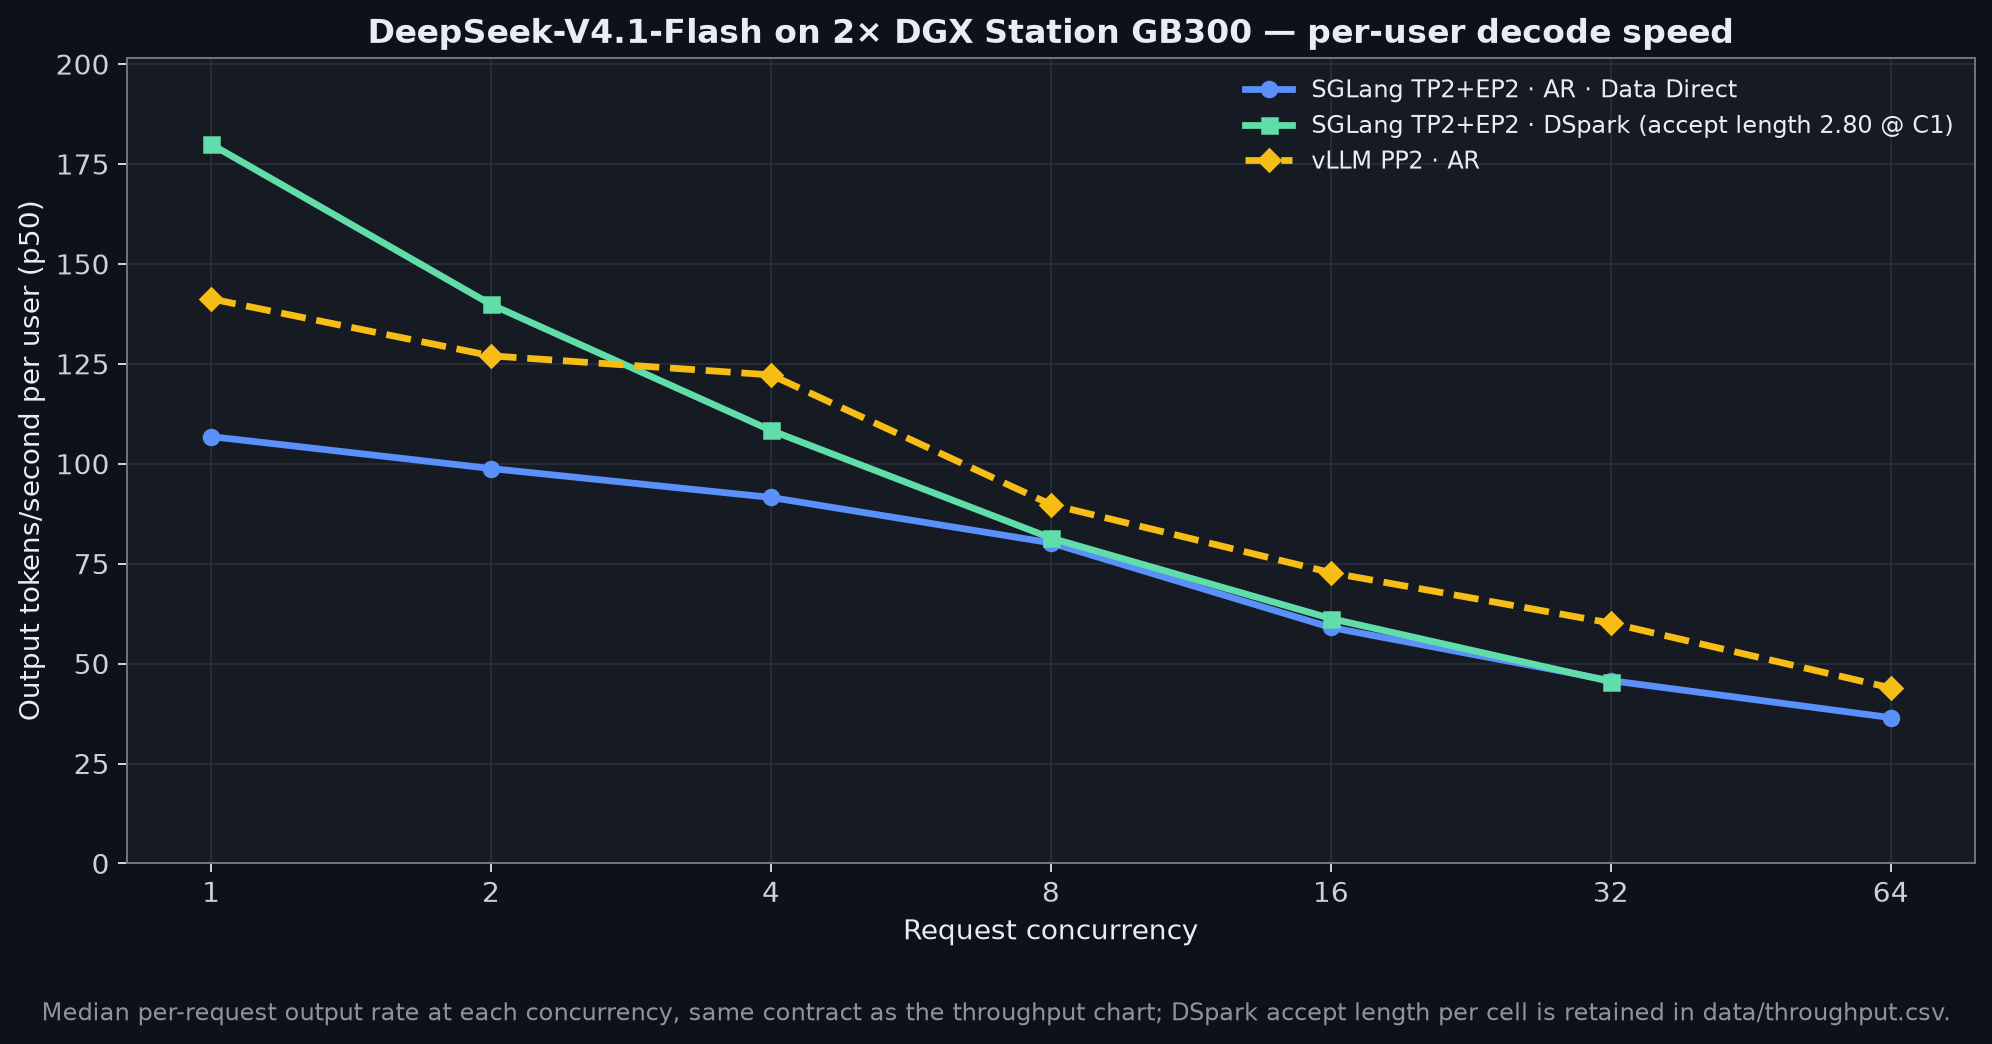
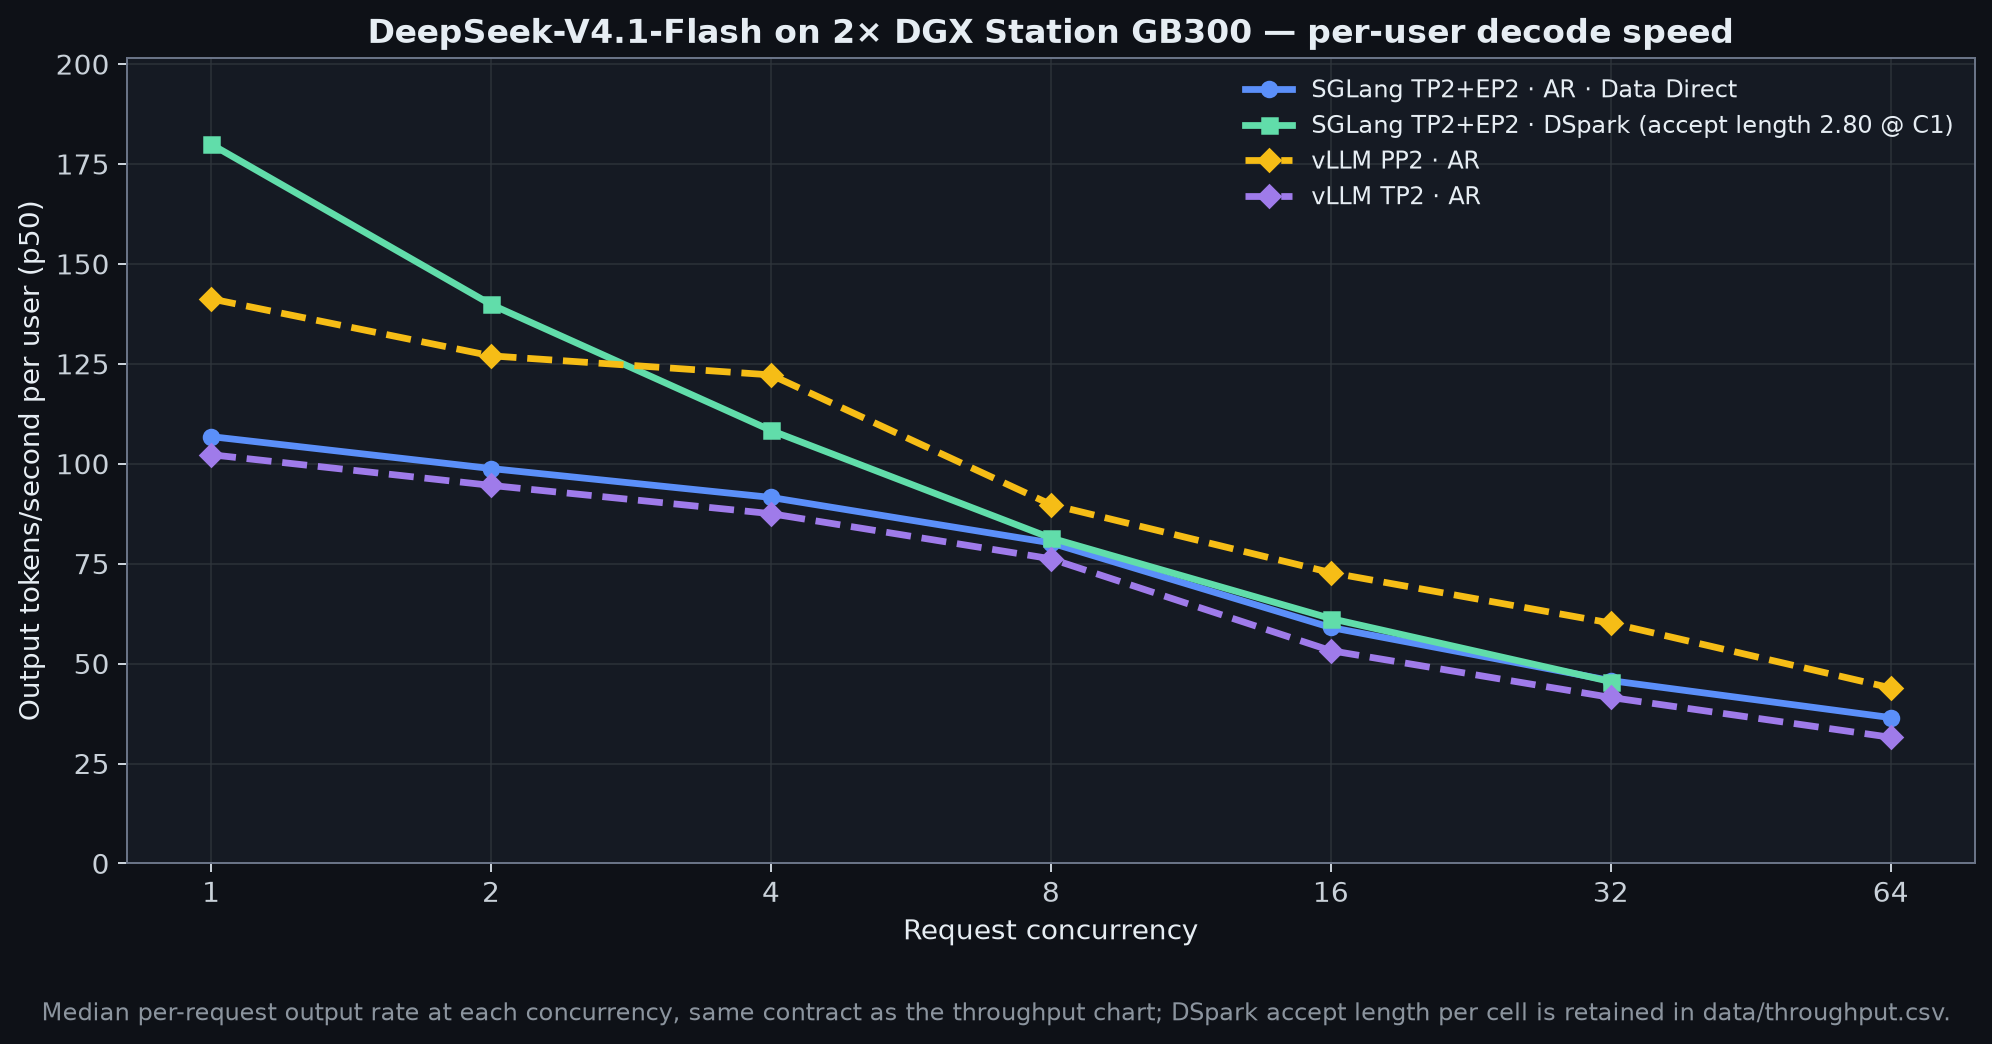
Add vLLM TP2 decode results to the DeepSeek-V4.1-Flash section
vLLM TP2 autoregressive decode (8K in / 1K out, C1-C64, 0 errors) is
accepted: 102.3 output tok/s per user at C1 and 1,964.5 aggregate tok/s at
C64, trailing the TP1 x PP2 split of the same image (141.3 / 2,805.9) at
every concurrency. Decode charts, the Best-numbers row and the detailed
decode tables carry the new series; only the TP2 DSpark cells remain.

Claude-Session: https://claude.ai/code/session_01G6pAiZCB58AcVpxWZhJWVM

diff --git a/deepseek-v4.1-flash/notes/README.md b/deepseek-v4.1-flash/notes/README.md
@@ -51,15 +51,15 @@ tables in [`../data/`](../data/), which the section tests enforce.
 
 ### Decode throughput
 
-*Aggregate output tok/s versus request concurrency (AR and DSpark, both engines); 8,192-token input, 1,024 forced output tokens, temperature 0, `C` warm-ups then `5 × C` measured requests. All three decode lanes are accepted; the SGLang DSpark lane was requested at C1–C32 only, so its C64 cell does not exist (a C64 point is queued but not yet measured). The C2 and C8 cells and every TTFT, ITL, and accept length are in [`throughput.csv`](../data/throughput.csv).*
+*Aggregate output tok/s versus request concurrency (AR and DSpark, both engines); 8,192-token input, 1,024 forced output tokens, temperature 0, `C` warm-ups then `5 × C` measured requests. All four decode lanes with rows (SGLang AR, SGLang DSpark, vLLM PP2 AR, vLLM TP2 AR) are accepted; the vLLM TP2 DSpark lane is pending. vLLM TP2 AR trails PP2 AR at every concurrency (102.3 versus 141.3 tok/s per user at C1; 1,964.5 versus 2,805.9 aggregate tok/s at C64): under TP2 every decode step pays the cross-node all-reduce in each layer, while PP2 only hands activations between stages once per step. The SGLang DSpark lane was requested at C1–C32 only, so its C64 cell does not exist (a C64 point is queued but not yet measured). The C2 and C8 cells and every TTFT, ITL, and accept length are in [`throughput.csv`](../data/throughput.csv).*
 
 | C | SGLang AR · Data Direct | SGLang DSpark | vLLM PP2 · AR | vLLM TP2 · AR | vLLM TP2 · DSpark |
 | ---: | ---: | ---: | ---: | ---: | ---: |
-| 1 | 104.2 | **169.2** | 140.6 | {{VLLM_TP2_DECODE_C1}} | {{VLLM_TP2_DSPARK_DECODE_C1}} |
-| 4 | 352.4 | 416.6 | **431.1** | {{VLLM_TP2_DECODE_C4}} | {{VLLM_TP2_DSPARK_DECODE_C4}} |
-| 16 | 906.8 | 946.2 | **1,033.4** | {{VLLM_TP2_DECODE_C16}} | {{VLLM_TP2_DSPARK_DECODE_C16}} |
-| 32 | 1,410.3 | 1,418.3 | **1,878.0** | {{VLLM_TP2_DECODE_C32}} | {{VLLM_TP2_DSPARK_DECODE_C32}} |
-| 64 | 2,236.7 | — | **2,805.9** | {{VLLM_TP2_DECODE_C64}} | {{VLLM_TP2_DSPARK_DECODE_C64}} |
+| 1 | 104.2 | **169.2** | 140.6 | 101.9 | {{VLLM_TP2_DSPARK_DECODE_C1}} |
+| 4 | 352.4 | 416.6 | **431.1** | 343.5 | {{VLLM_TP2_DSPARK_DECODE_C4}} |
+| 16 | 906.8 | 946.2 | **1,033.4** | 803.7 | {{VLLM_TP2_DSPARK_DECODE_C16}} |
+| 32 | 1,410.3 | 1,418.3 | **1,878.0** | 1,272.0 | {{VLLM_TP2_DSPARK_DECODE_C32}} |
+| 64 | 2,236.7 | — | **2,805.9** | 1,964.5 | {{VLLM_TP2_DSPARK_DECODE_C64}} |
 
 ### Per-user decode speed
 
@@ -67,11 +67,11 @@ tables in [`../data/`](../data/), which the section tests enforce.
 
 | C | SGLang AR · Data Direct | SGLang DSpark | vLLM PP2 · AR | vLLM TP2 · AR | vLLM TP2 · DSpark |
 | ---: | ---: | ---: | ---: | ---: | ---: |
-| 1 | 106.8 | **180.0** | 141.3 | {{VLLM_TP2_USER_C1}} | {{VLLM_TP2_DSPARK_USER_C1}} |
-| 4 | 91.6 | 108.4 | **122.2** | {{VLLM_TP2_USER_C4}} | {{VLLM_TP2_DSPARK_USER_C4}} |
-| 16 | 59.0 | 61.3 | **72.8** | {{VLLM_TP2_USER_C16}} | {{VLLM_TP2_DSPARK_USER_C16}} |
-| 32 | 45.7 | 45.5 | **60.2** | {{VLLM_TP2_USER_C32}} | {{VLLM_TP2_DSPARK_USER_C32}} |
-| 64 | 36.5 | — | **43.9** | {{VLLM_TP2_USER_C64}} | {{VLLM_TP2_DSPARK_USER_C64}} |
+| 1 | 106.8 | **180.0** | 141.3 | 102.3 | {{VLLM_TP2_DSPARK_USER_C1}} |
+| 4 | 91.6 | 108.4 | **122.2** | 87.5 | {{VLLM_TP2_DSPARK_USER_C4}} |
+| 16 | 59.0 | 61.3 | **72.8** | 53.2 | {{VLLM_TP2_DSPARK_USER_C16}} |
+| 32 | 45.7 | 45.5 | **60.2** | 41.5 | {{VLLM_TP2_DSPARK_USER_C32}} |
+| 64 | 36.5 | — | **43.9** | 31.6 | {{VLLM_TP2_DSPARK_USER_C64}} |
 
 ### SGLang prefill tuning ladder
 
@@ -115,7 +115,7 @@ tables in [`../data/`](../data/), which the section tests enforce.
 | SGLang `dev-dsv41` | TP2+EP2 | AR + SWA replay | accepted (12/12 points, 0 errors); not bit-identical to full prefill | not measured (prefill-only flag) |
 | SGLang `dev-dsv41` | TP2+EP2 | DSpark | diagnostic only: 16K/64K C1 spot check (0 errors) | accepted (C1–C32 as requested, 0 errors) |
 | vLLM `deepseekv41-flash-0909` | TP1 × PP2 | AR · text-only, two local patches | accepted (12/12 points, 0 errors) | accepted (C1–C64, 0 errors) |
-| vLLM `deepseekv41-flash-0909` | TP2 | AR · text-only | accepted (12/12 points, 0 errors); rank 0 on node1 | {{STATUS_VLLM_TP2_DECODE}} |
+| vLLM `deepseekv41-flash-0909` | TP2 | AR · text-only | accepted (12/12 points, 0 errors); rank 0 on node1 | accepted (C1–C64, 0 errors); rank 0 on node1 |
 | vLLM `deepseekv41-flash-0909` | TP2 | DSpark | not measured | {{STATUS_VLLM_TP2_DSPARK_DECODE}} |
 | — | 1× GB300 | — | not attempted | not attempted |
 
@@ -215,7 +215,7 @@ one GB300. The lane ledger is [`qualification.csv`](../data/qualification.csv).
   prefill buffers. The stock-path baseline (ladder step 1) ran at 0.85.
 - `--context-length 262144` so 128K prompts plus one output token fit.
 - vLLM: PP2 default (both Engram layers on stage 0, no cross-node traffic for
-  them); TP2 queued for parity; DSpark requires TP (PP is rejected by the
+  them); TP2 run for parity; DSpark requires TP (PP is rejected by the
   DSpark runner). FlashInfer autotune off, custom all-reduce off. PP2 needs
   the two local source patches described under Incidents
   (`VLLM_PATCH_PP=1`, `recipes/patches/vllm/`).
@@ -272,8 +272,13 @@ one GB300. The lane ledger is [`qualification.csv`](../data/qualification.csv).
   versus 34,695). TP2 also trails SGLang's SWA-replay lane (−11.3% at
   64K / C16, −13.3% for one 128K request) while beating exact full prefill
   (+35.3% and +33.9%). The sampled GPU (node0, TP rank 1 in this launch) drew
-  972–1,039 W mean at the C4/C16 points. Its AR decode
-  sweep was still running when this was written.
+  972–1,039 W mean at the C4/C16 points. Its AR decode sweep (run
+  20260910-180632, C1–C64, 0 errors) trails PP2 AR at every concurrency:
+  102.3 versus 141.3 tok/s per user at C1 and 1,964.5 versus 2,805.9
+  aggregate tok/s at C64 (−27.6% and −30.0%), and it also trails SGLang AR ·
+  Data Direct at every concurrency (106.8 per user at C1, 2,236.7 aggregate
+  at C64). Each decode step under TP2 ends every layer in a cross-node
+  all-reduce, the same cost that keeps its prefill flat in concurrency.
 
 ## Profiles
 
@@ -442,9 +447,9 @@ one GB300. The lane ledger is [`qualification.csv`](../data/qualification.csv).
   settings excluded by the bisect above). The OS-reboot-between-lanes
   workaround and `SWAP_RANKS=1` are in the recipe; the vendor question is
   open.
-- The vLLM TP2 AR prefill grid is accepted; its AR decode sweep and the TP2
-  DSpark decode lane were still running when this was written and fill the
-  remaining placeholders once they complete error-free. vLLM's DSpark runner
+- The vLLM TP2 AR prefill grid and AR decode sweep are accepted; the TP2
+  DSpark decode lane was still pending when this was written and fills the
+  remaining placeholders once it completes error-free. vLLM's DSpark runner
   rejects pipeline parallelism, so there is no PP2 DSpark lane.
 - A SGLang DSpark C64 decode point is queued; the accepted DSpark lane was
   requested at C1–C32.

diff --git a/deepseek-v4.1-flash/README.md b/deepseek-v4.1-flash/README.md
@@ -1,6 +1,6 @@
 # DeepSeek-V4.1-Flash on 2× NVIDIA GB300 DGX Stations
 
-The official [`deepseek-ai/DeepSeek-V4.1-Flash`](https://huggingface.co/deepseek-ai/DeepSeek-V4.1-Flash) checkpoint at revision `dba1be0a40aa45a94ad051997016db3960a90277` (48 native FP8-dense / FP4-expert shards, 510,286,023,000 bytes, more than one GB300 holds), served across two DGX Stations over dual 400GbE RoCE rails by SGLang (TP2+EP2) and vLLM (TP1 × PP2 and TP2; the vLLM TP2 decode and DSpark lanes are pending), autoregressive and with DSpark speculative decoding.
+The official [`deepseek-ai/DeepSeek-V4.1-Flash`](https://huggingface.co/deepseek-ai/DeepSeek-V4.1-Flash) checkpoint at revision `dba1be0a40aa45a94ad051997016db3960a90277` (48 native FP8-dense / FP4-expert shards, 510,286,023,000 bytes, more than one GB300 holds), served across two DGX Stations over dual 400GbE RoCE rails by SGLang (TP2+EP2) and vLLM (TP1 × PP2 and TP2; the vLLM TP2 DSpark lane is pending), autoregressive and with DSpark speculative decoding.
 
 [![vLLM PP2 social clip: one 128K request across two DGX Stations](assets/fly-vllm-preview.gif)](assets/fly-vllm-2xdgx.mp4)
 
@@ -30,7 +30,7 @@ The official [`deepseek-ai/DeepSeek-V4.1-Flash`](https://huggingface.co/deepseek
 | SGLang AR + SWA replay | 37,674 | 39,133 | — | — |
 | SGLang DSpark† | — | — | **180.0** | — |
 | vLLM PP2 · AR | **55,992** | **65,966** | 141.3 | **2,805.9** |
-| vLLM TP2 · AR | 32,672 | 34,695 | {{VLLM_TP2_USER_C1}} | {{VLLM_TP2_DECODE_C64}} |
+| vLLM TP2 · AR | 32,672 | 34,695 | 102.3 | 1,964.5 |
 | vLLM TP2 · DSpark | — | — | {{VLLM_TP2_DSPARK_USER_C1}} | {{VLLM_TP2_DSPARK_DECODE_C64}} |
 
 *Prompt tok/s for one 128K request and aggregate at 64K with 16 requests in flight; output tok/s per user at C1 and aggregate at C64. Bold is the best accepted value in the column, † a diagnostic lane that is drawn but never ranked, — a point outside the lane's measured grid. Every measured configuration is its own series on every chart; accepted lanes rank, and the replay-off SGLang lane is the numerically exact reference. One station was not attempted. Full per-lane grids with TTFT, ITL, and accept lengths: [notes/](notes/).*
@@ -57,7 +57,7 @@ The official [`deepseek-ai/DeepSeek-V4.1-Flash`](https://huggingface.co/deepseek
 
 ![DeepSeek-V4.1-Flash aggregate decode throughput versus concurrency](charts/decode-throughput.png)
 
-*Aggregate output tok/s versus concurrency, AR and DSpark on both engines; 8,192-token input, 1,024 forced output tokens, temperature 0, `C` warm-ups then `5 × C` measured requests. DSpark was requested at C1–C32.*
+*Aggregate output tok/s versus concurrency, AR and DSpark on both engines; 8,192-token input, 1,024 forced output tokens, temperature 0, `C` warm-ups then `5 × C` measured requests. vLLM TP2 trails PP2 at every concurrency; DSpark was requested at C1–C32.*
 
 ## Per-user decode speed
 

diff --git a/deepseek-v4.1-flash/notes/PLACEHOLDERS.md b/deepseek-v4.1-flash/notes/PLACEHOLDERS.md
@@ -9,13 +9,7 @@ placeholder for a pending run.
 
 | Token | Files | Source and format |
 | --- | --- | --- |
-| `{{STATUS_VLLM_TP2_DECODE}}` | notes/README.md | lane disposition wording for the 'What was measured' table (accepted / pending / diagnostic only / failed: reason) |
 | `{{STATUS_VLLM_TP2_DSPARK_DECODE}}` | notes/README.md | lane disposition wording for the 'What was measured' table (accepted / pending / diagnostic only / failed: reason) |
-| `{{VLLM_TP2_DECODE_C16}}` | notes/README.md | throughput.csv aggregate_output_tokens_per_second, vLLM TP2 AR, f'{v:,.1f}' |
-| `{{VLLM_TP2_DECODE_C1}}` | notes/README.md | throughput.csv aggregate_output_tokens_per_second, vLLM TP2 AR, f'{v:,.1f}' |
-| `{{VLLM_TP2_DECODE_C32}}` | notes/README.md | throughput.csv aggregate_output_tokens_per_second, vLLM TP2 AR, f'{v:,.1f}' |
-| `{{VLLM_TP2_DECODE_C4}}` | notes/README.md | throughput.csv aggregate_output_tokens_per_second, vLLM TP2 AR, f'{v:,.1f}' |
-| `{{VLLM_TP2_DECODE_C64}}` | README.md, notes/README.md | throughput.csv aggregate_output_tokens_per_second, vLLM TP2 AR, f'{v:,.1f}' |
 | `{{VLLM_TP2_DSPARK_DECODE_C16}}` | notes/README.md | throughput.csv aggregate_output_tokens_per_second, vLLM TP2 DSpark, f'{v:,.1f}' |
 | `{{VLLM_TP2_DSPARK_DECODE_C1}}` | notes/README.md | throughput.csv aggregate_output_tokens_per_second, vLLM TP2 DSpark, f'{v:,.1f}' |
 | `{{VLLM_TP2_DSPARK_DECODE_C32}}` | notes/README.md | throughput.csv aggregate_output_tokens_per_second, vLLM TP2 DSpark, f'{v:,.1f}' |
@@ -26,10 +20,5 @@ placeholder for a pending run.
 | `{{VLLM_TP2_DSPARK_USER_C32}}` | notes/README.md | throughput.csv per_user_output_tokens_per_second_p50, vLLM TP2 DSpark, f'{v:,.1f}' |
 | `{{VLLM_TP2_DSPARK_USER_C4}}` | notes/README.md | throughput.csv per_user_output_tokens_per_second_p50, vLLM TP2 DSpark, f'{v:,.1f}' |
 | `{{VLLM_TP2_DSPARK_USER_C64}}` | notes/README.md | throughput.csv per_user_output_tokens_per_second_p50, vLLM TP2 DSpark, f'{v:,.1f}' |
-| `{{VLLM_TP2_USER_C16}}` | notes/README.md | throughput.csv per_user_output_tokens_per_second_p50, vLLM TP2 AR, f'{v:,.1f}' |
-| `{{VLLM_TP2_USER_C1}}` | README.md, notes/README.md | throughput.csv per_user_output_tokens_per_second_p50, vLLM TP2 AR, f'{v:,.1f}' |
-| `{{VLLM_TP2_USER_C32}}` | notes/README.md | throughput.csv per_user_output_tokens_per_second_p50, vLLM TP2 AR, f'{v:,.1f}' |
-| `{{VLLM_TP2_USER_C4}}` | notes/README.md | throughput.csv per_user_output_tokens_per_second_p50, vLLM TP2 AR, f'{v:,.1f}' |
-| `{{VLLM_TP2_USER_C64}}` | notes/README.md | throughput.csv per_user_output_tokens_per_second_p50, vLLM TP2 AR, f'{v:,.1f}' |
 
-22 placeholders.
+11 placeholders.
